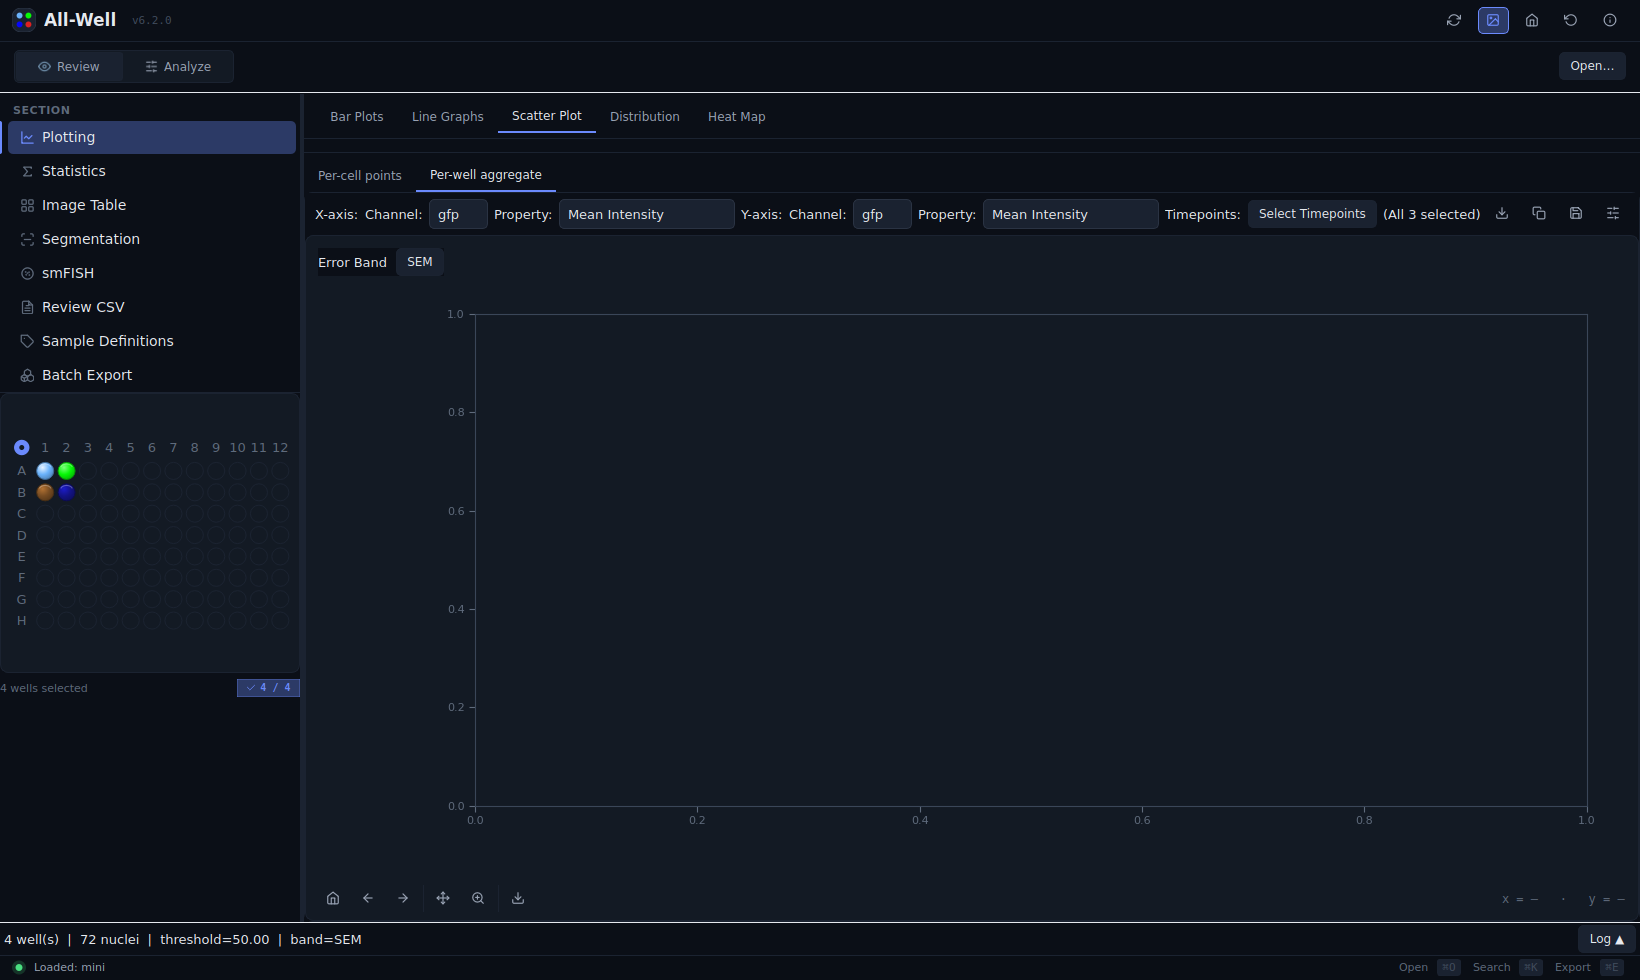
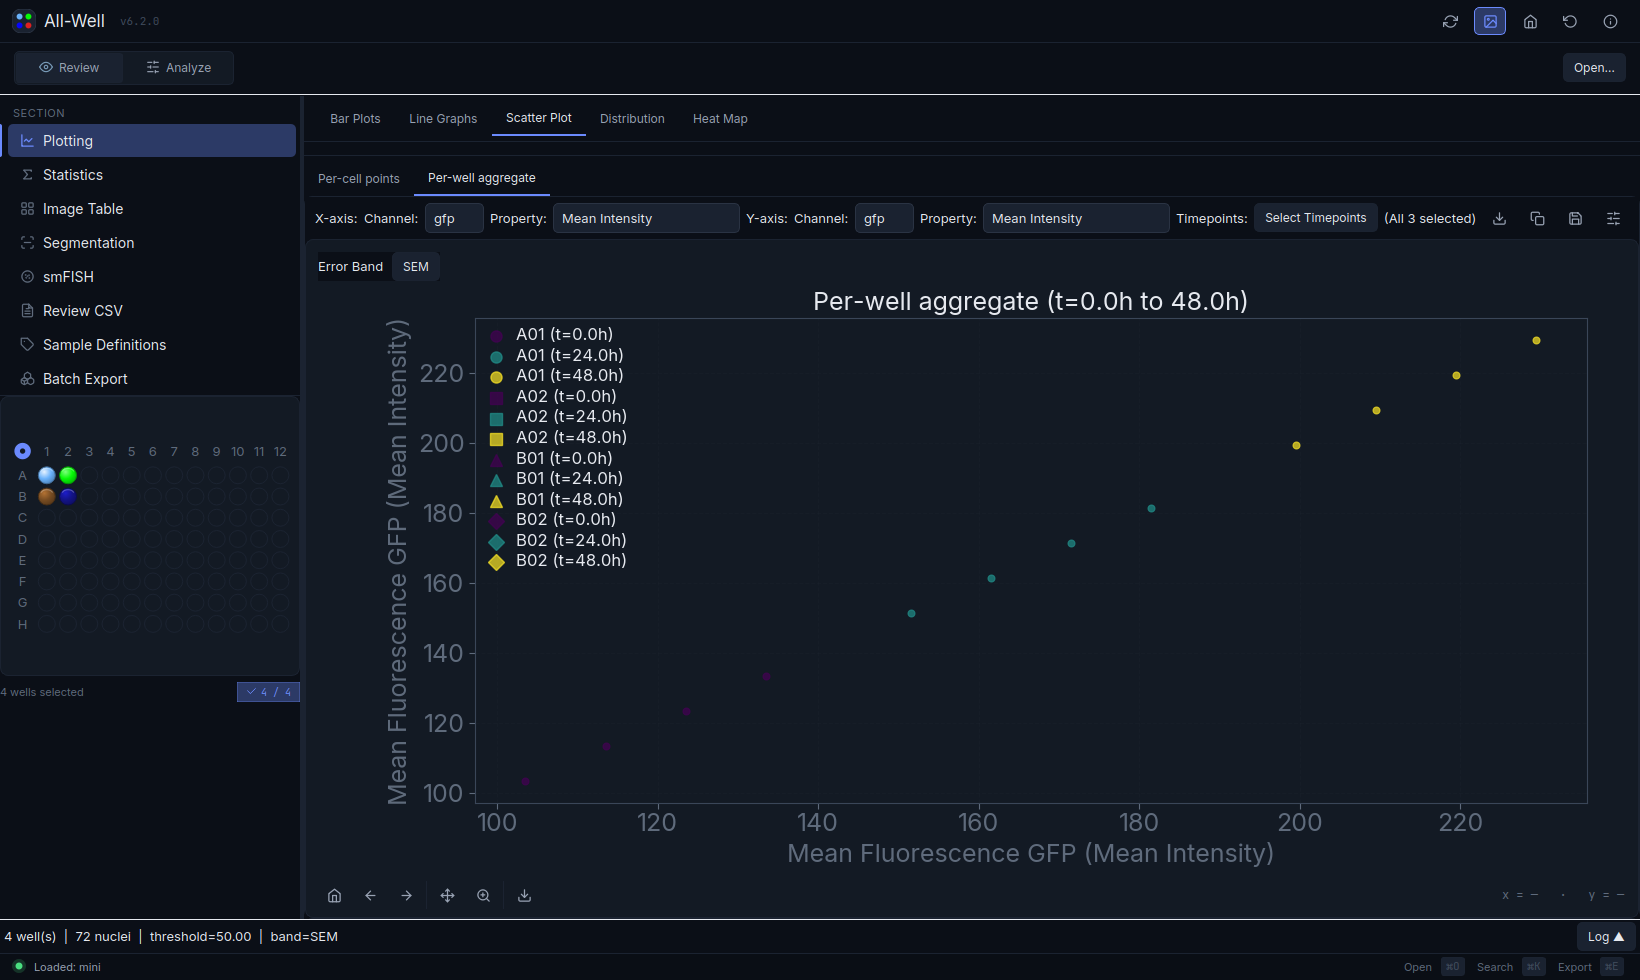
Fix visual-audit findings: scatter agg title clip + stats empty-state hint
Two layout/label fixes surfaced by the visual audit (no behavioural change):

- Scatter "Per-well aggregate" title repeated stat_x/stat_y already shown
  on the axis labels, overrunning the axes and clipping its leading
  characters at the left edge. Shortened to "Per-well aggregate (t=… to …)".

- Statistics results panel was blank before the first run with no guidance.
  Added a placeholder hint telling the user to pick two comparison groups,
  choose a test, and click Run test.

Re-rendered the two affected views to confirm.

The help-drawer "dim backdrop" finding was a render-harness artifact, not a
real bug: _Backdrop.paintEvent already fills at 0.35 alpha (widgets/drawer.py);
the QSS transparent only stops the stylesheet overriding that custom paint.
Left unchanged.

diff --git a/well_viewer/features/scatter/controller.py b/well_viewer/features/scatter/controller.py
@@ -349,8 +349,11 @@ def redraw_scatter_agg(
         app._ax_scatter_agg.set_xlabel(stat_x)
         app._ax_scatter_agg.set_ylabel(stat_y)
         tp_range = f"t={min(timepoints_h)}h to {max(timepoints_h)}h" if timepoints_h else ""
+        # The x/y axis labels already carry stat_x / stat_y, so keep the title
+        # short — repeating both in the title overran the axes and clipped its
+        # first characters at the left edge.
         app._ax_scatter_agg.set_title(
-            f"Aggregate Scatter: {stat_x} vs {stat_y} ({tp_range})",
+            f"Per-well aggregate ({tp_range})" if tp_range else "Per-well aggregate",
             color=_title_fg,
         )
         app._ax_scatter_agg.grid(True, alpha=0.3, color=_grid)

diff --git a/well_viewer/features/stats/view.py b/well_viewer/features/stats/view.py
@@ -254,6 +254,11 @@ def build_stats_results_panel(app, parent: QWidget) -> None:
     app._stats_result_text = QTextEdit(app._stats_res_frame)
     app._stats_result_text.setReadOnly(True)
     app._stats_result_text.setLineWrapMode(QTextEdit.WidgetWidth)
+    # Hint in the otherwise-blank results panel before the first run.
+    app._stats_result_text.setPlaceholderText(
+        "Select two comparison groups (left panel), choose a test, then click "
+        "Run test to see results here."
+    )
     rl.addWidget(app._stats_result_text)
     layout.addWidget(app._stats_res_frame, 1)
 
